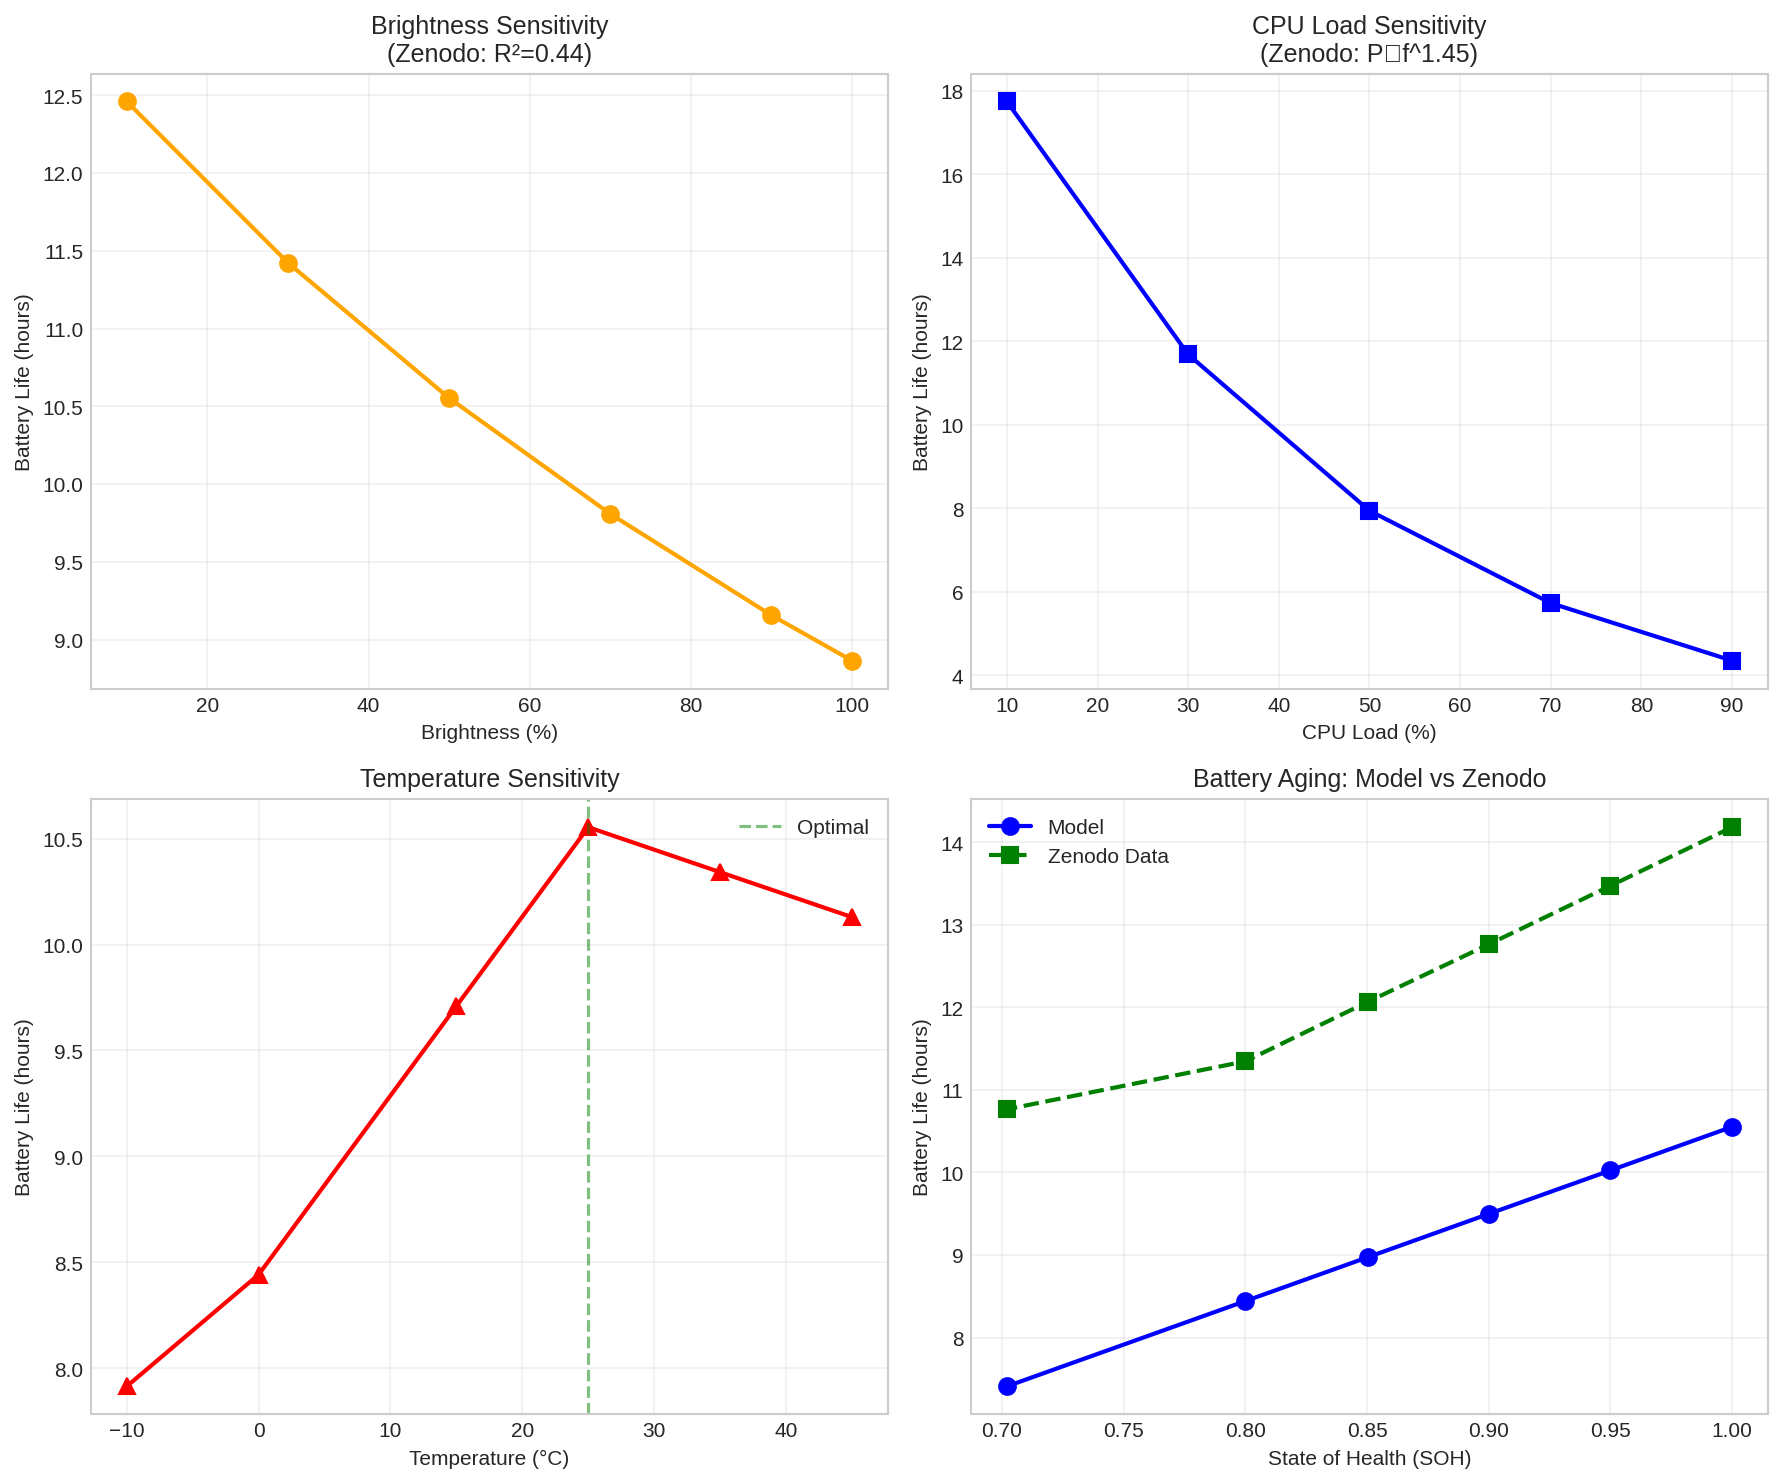
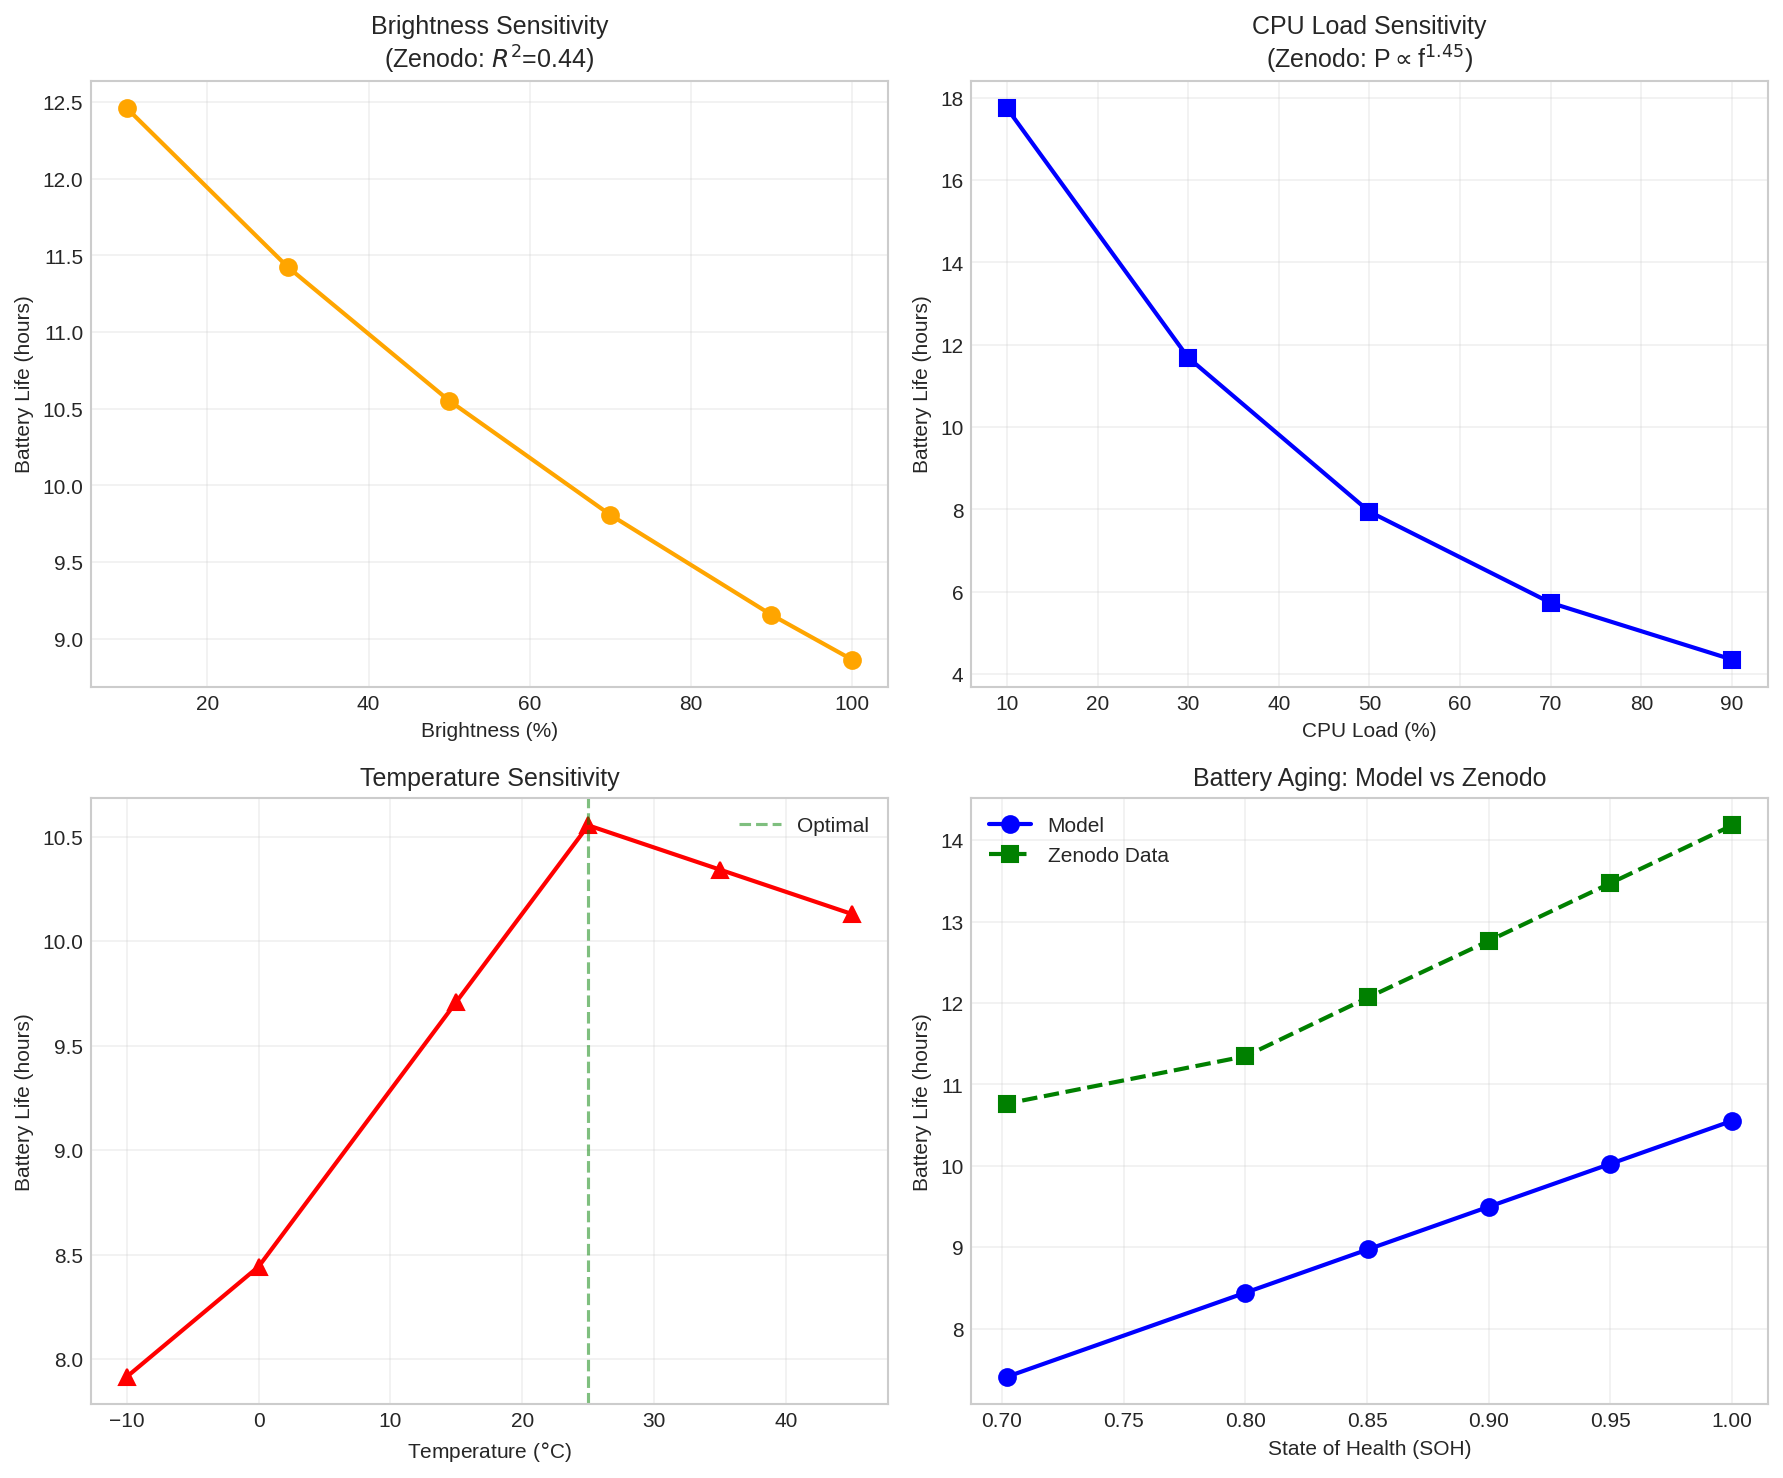
Fix font issues for Unicode characters in matplotlib plots

diff --git a/run_mcm_analysis.py b/run_mcm_analysis.py
@@ -25,6 +25,11 @@ from dataclasses import dataclass, asdict
 from typing import Dict, List, Tuple, Optional
 import os
 
+# Configure matplotlib to use mathtext for Unicode symbols
+# This ensures proper rendering of special characters like ∝, °, ² across platforms
+plt.rcParams['mathtext.fontset'] = 'dejavusans'
+plt.rcParams['font.family'] = 'DejaVu Sans'
+
 # Constants
 FIGURES_DIR = "pictures"
 RESULTS_FILE = "mcm_results.json"
@@ -670,7 +675,7 @@ def generate_figures(model: ZenodoBasedSOCModel, r2_results: dict,
     ax.plot(b_vals, tte_vals, 'o-', color='orange', linewidth=2, markersize=8)
     ax.set_xlabel('Brightness (%)')
     ax.set_ylabel('Battery Life (hours)')
-    ax.set_title('Brightness Sensitivity\n(Zenodo: R²=0.44)')
+    ax.set_title('Brightness Sensitivity\n(Zenodo: $R^2$=0.44)')
     ax.grid(True, alpha=0.3)
     
     # 2b: CPU load sensitivity
@@ -681,7 +686,7 @@ def generate_figures(model: ZenodoBasedSOCModel, r2_results: dict,
     ax.plot(cpu_vals, tte_vals, 's-', color='blue', linewidth=2, markersize=8)
     ax.set_xlabel('CPU Load (%)')
     ax.set_ylabel('Battery Life (hours)')
-    ax.set_title(f'CPU Load Sensitivity\n(Zenodo: P∝f^{model.power.cpu_freq_exponent:.2f})')
+    ax.set_title(f'CPU Load Sensitivity\n(Zenodo: P$\\propto$f$^{{{model.power.cpu_freq_exponent:.2f}}}$)')
     ax.grid(True, alpha=0.3)
     
     # 2c: Temperature sensitivity
@@ -690,7 +695,7 @@ def generate_figures(model: ZenodoBasedSOCModel, r2_results: dict,
     temp_vals = [d['temperature_c'] for d in temp_data]
     tte_vals = [d['time_hours'] for d in temp_data]
     ax.plot(temp_vals, tte_vals, '^-', color='red', linewidth=2, markersize=8)
-    ax.set_xlabel('Temperature (°C)')
+    ax.set_xlabel(r'Temperature ($\degree$C)')
     ax.set_ylabel('Battery Life (hours)')
     ax.set_title('Temperature Sensitivity')
     ax.axvline(x=25, color='green', linestyle='--', alpha=0.5, label='Optimal')
